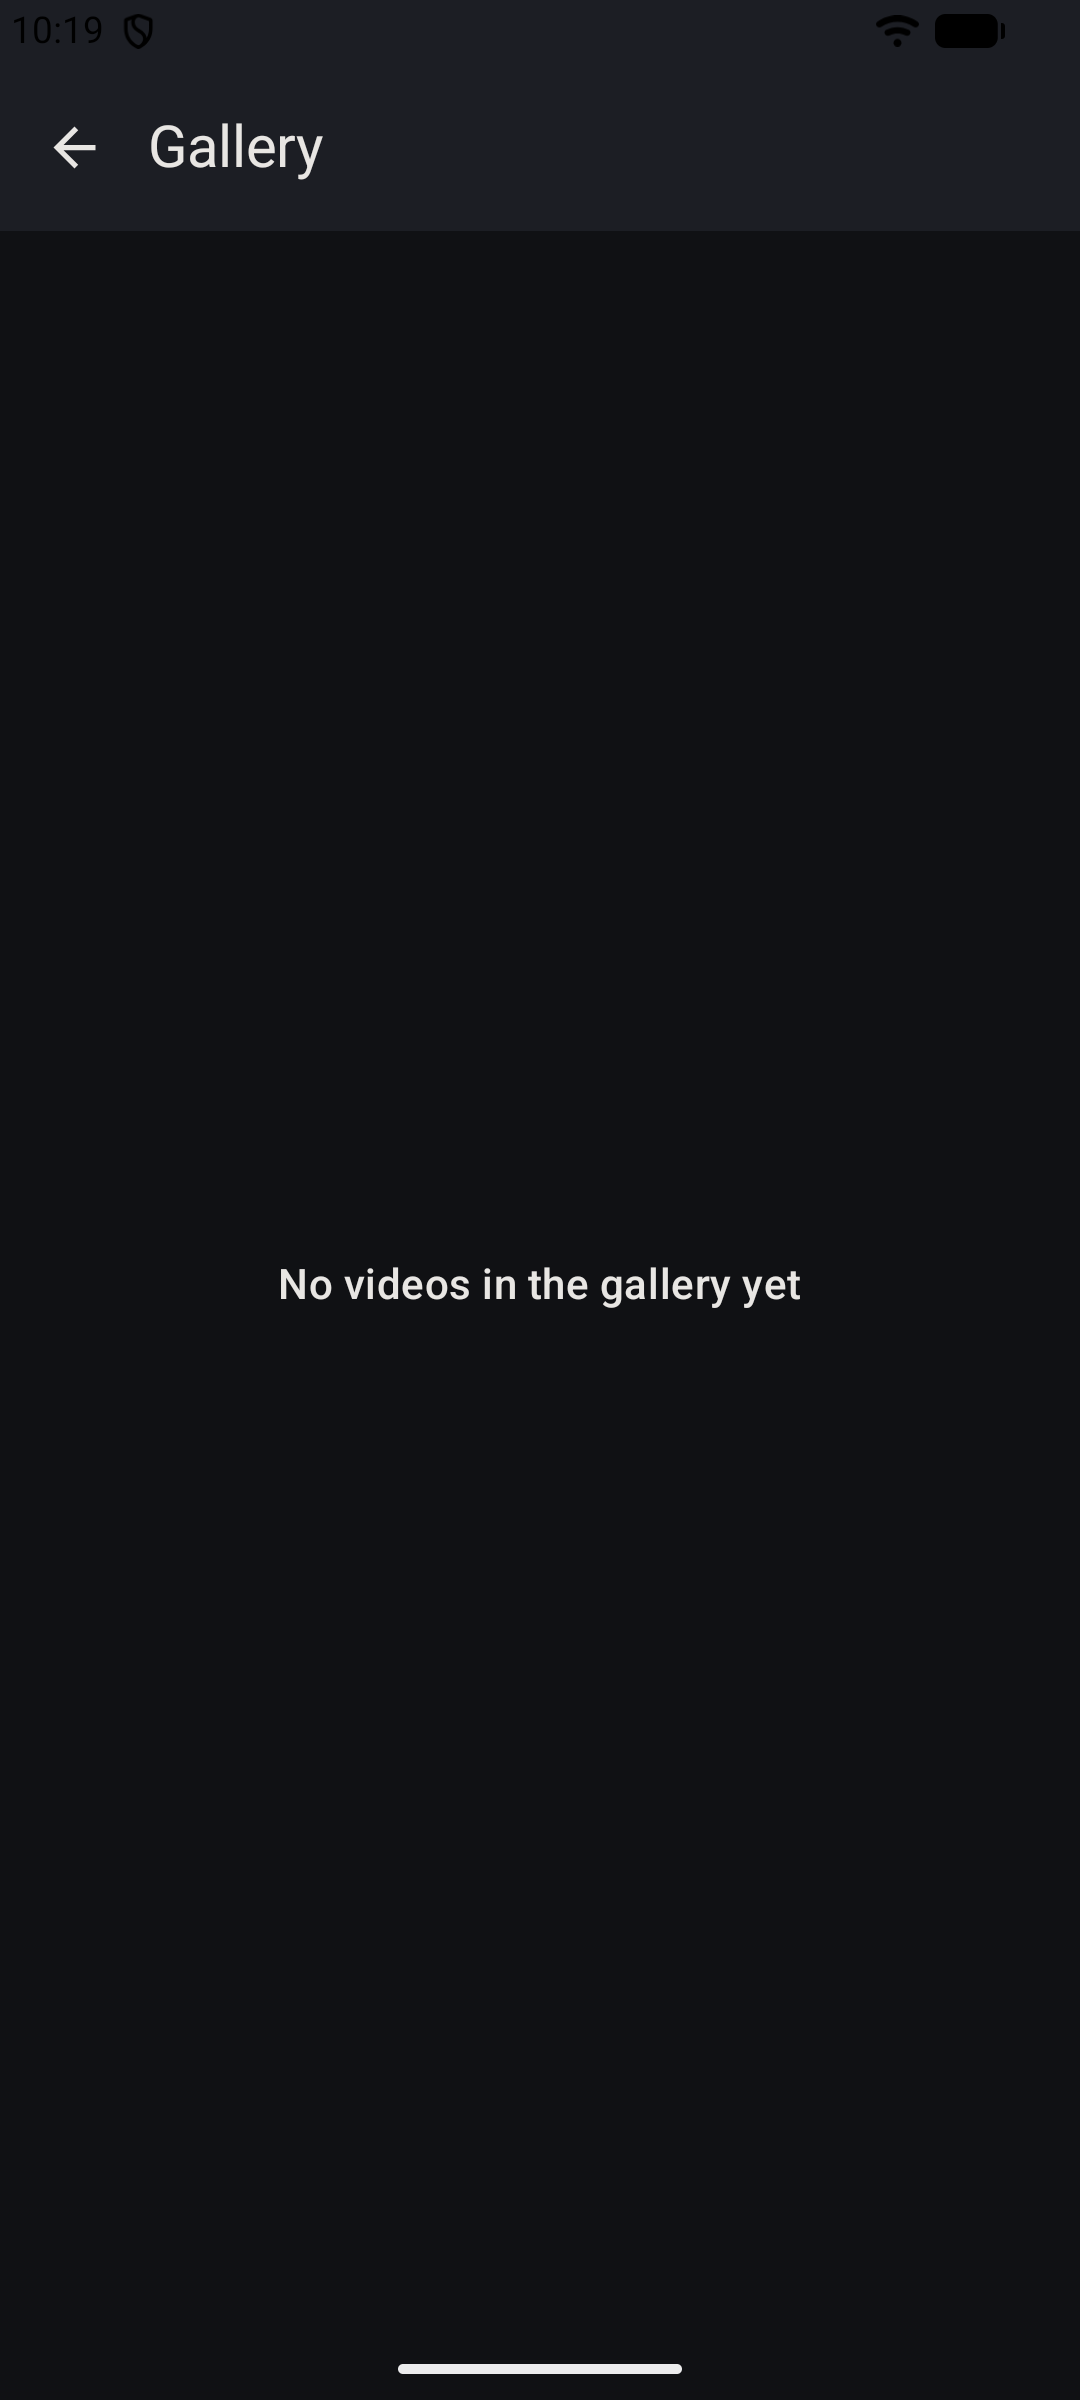
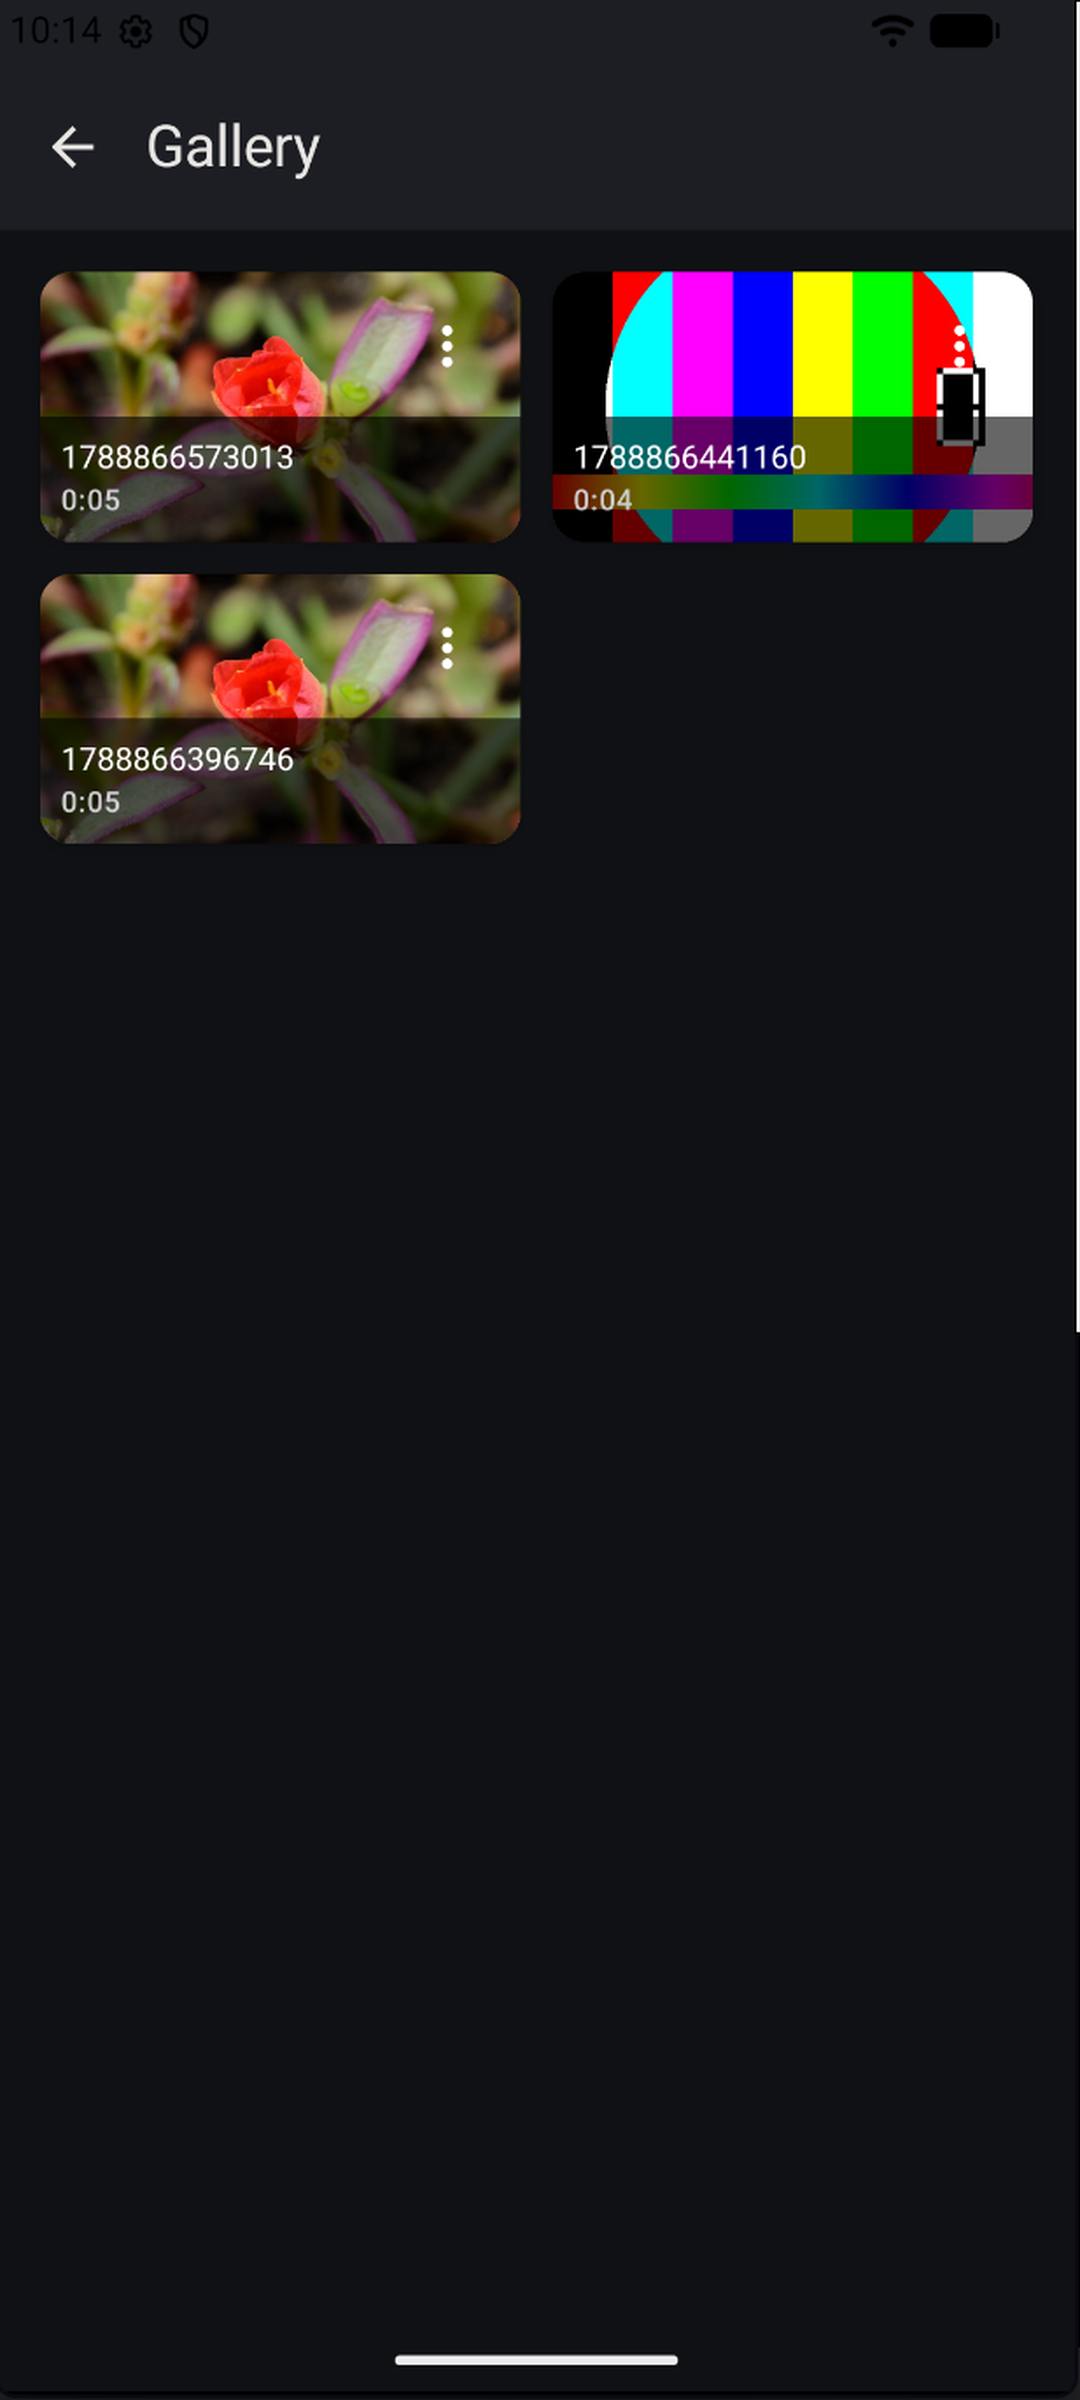
Release 2.4.0 with sample-clip screenshots and a blurred catalog.

diff --git a/app/src/main/java/ru/spgsroot/vibeplayer/manga/NhentaiRequest.kt b/app/src/main/java/ru/spgsroot/vibeplayer/manga/NhentaiRequest.kt
@@ -8,7 +8,7 @@ data class NhentaiRequest(
     fun header(name: String): String? = headers[name]
 
     companion object {
-        const val USER_AGENT = "VibePlayer/2.3.0 (https://github.com/spgsroot/VibePlayer)"
+        const val USER_AGENT = "VibePlayer/2.4.0 (https://github.com/spgsroot/VibePlayer)"
 
         fun favorite(galleryId: Int, key: String, add: Boolean): NhentaiRequest {
             return NhentaiRequest(

diff --git a/README_RU.md b/README_RU.md
@@ -1,22 +1,20 @@
 # VibePlayer
 
-Видеоплеер для Android, который переводит звук воспроизведения в команды актуаторов Buttplug, и ридер nhentai. Интерфейс на Jetpack Compose. Версия в этом дереве: `2.3.0` (`versionCode` 3). [English](README.md).
+Видеоплеер для Android, который переводит звук воспроизведения в команды актуаторов Buttplug, и ридер nhentai. Интерфейс на Jetpack Compose. Версия в этом дереве: `2.4.0` (`versionCode` 4). [English](README.md).
 
-Снимки сделаны на эмуляторе с пустой библиотекой. Видео и страницы галерей не загружались.
+На снимке плеера — локальный тестовый ролик. В галерее — ролики, импортированные в приложение. Обложки и названия в каталоге закрыты. Снимок ридера — экран после неудачного открытия, изображений страниц на нём нет.
 
 | Первый запуск | PIN | Плеер |
 |:---:|:---:|:---:|
-| <img src="repo/screens/onboarding.png" width="180" alt="Первый запуск"/> | <img src="repo/screens/auth.png" width="180" alt="Экран PIN"/> | <img src="repo/screens/player.png" width="180" alt="Пустой плеер"/> |
+| <img src="repo/screens/onboarding.png" width="180" alt="Первый запуск"/> | <img src="repo/screens/auth.png" width="180" alt="Экран PIN"/> | <img src="repo/screens/player.png" width="180" alt="Плеер с локальным роликом"/> |
 
 | Настройки | Устройство | Добавление видео |
 |:---:|:---:|:---:|
 | <img src="repo/screens/settings.png" width="180" alt="Настройки"/> | <img src="repo/screens/device.png" width="180" alt="Диалог Intiface"/> | <img src="repo/screens/add-video.png" width="180" alt="Добавить видео"/> |
 
-| Галерея | Библиотека | Ридер |
+| Галерея | Каталог | Ридер |
 |:---:|:---:|:---:|
-| <img src="repo/screens/gallery.png" width="180" alt="Пустая галерея"/> | <img src="repo/screens/library.png" width="180" alt="Пустая библиотека"/> | <img src="repo/screens/reader.png" width="180" alt="Ридер без загруженных страниц"/> |
-
-Снимок ридера — экран после неудачного открытия. Изображений страниц на нём нет.
+| <img src="repo/screens/gallery.png" width="180" alt="Галерея с импортированными роликами"/> | <img src="repo/screens/catalog.png" width="180" alt="Поиск в каталоге, обложки закрыты"/> | <img src="repo/screens/reader.png" width="180" alt="Ридер без загруженных страниц"/> |
 
 ## Что делает
 

diff --git a/README.md b/README.md
@@ -1,22 +1,20 @@
 # VibePlayer
 
-Android video player that maps playback audio to Buttplug actuators, plus a reader for nhentai. UI is Jetpack Compose. Version in this tree: `2.3.0` (`versionCode` 3). [Русская версия](README_RU.md).
+Android video player that maps playback audio to Buttplug actuators, plus a reader for nhentai. UI is Jetpack Compose. Version in this tree: `2.4.0` (`versionCode` 4). [Русская версия](README_RU.md).
 
-The screenshots below were taken on an emulator with an empty library. No video and no gallery pages were loaded.
+The player shot is a local sample clip. The gallery shows clips imported into the app. Catalog covers and titles are blurred. The reader shot is the screen after a failed open and does not contain page images.
 
 | Onboarding | PIN | Player |
 |:---:|:---:|:---:|
-| <img src="repo/screens/onboarding.png" width="180" alt="Onboarding"/> | <img src="repo/screens/auth.png" width="180" alt="PIN pad"/> | <img src="repo/screens/player.png" width="180" alt="Empty player"/> |
+| <img src="repo/screens/onboarding.png" width="180" alt="Onboarding"/> | <img src="repo/screens/auth.png" width="180" alt="PIN pad"/> | <img src="repo/screens/player.png" width="180" alt="Player with a local clip"/> |
 
 | Settings | Device | Add video |
 |:---:|:---:|:---:|
 | <img src="repo/screens/settings.png" width="180" alt="Settings"/> | <img src="repo/screens/device.png" width="180" alt="Intiface dialog"/> | <img src="repo/screens/add-video.png" width="180" alt="Add video"/> |
 
-| Gallery | Library | Reader |
+| Gallery | Catalog | Reader |
 |:---:|:---:|:---:|
-| <img src="repo/screens/gallery.png" width="180" alt="Empty gallery"/> | <img src="repo/screens/library.png" width="180" alt="Empty library"/> | <img src="repo/screens/reader.png" width="180" alt="Reader with no pages loaded"/> |
-
-The reader shot is the screen after a failed open. It does not contain page images.
+| <img src="repo/screens/gallery.png" width="180" alt="Gallery with imported clips"/> | <img src="repo/screens/catalog.png" width="180" alt="Catalog search with covers blurred"/> | <img src="repo/screens/reader.png" width="180" alt="Reader with no pages loaded"/> |
 
 ## What it does
 
